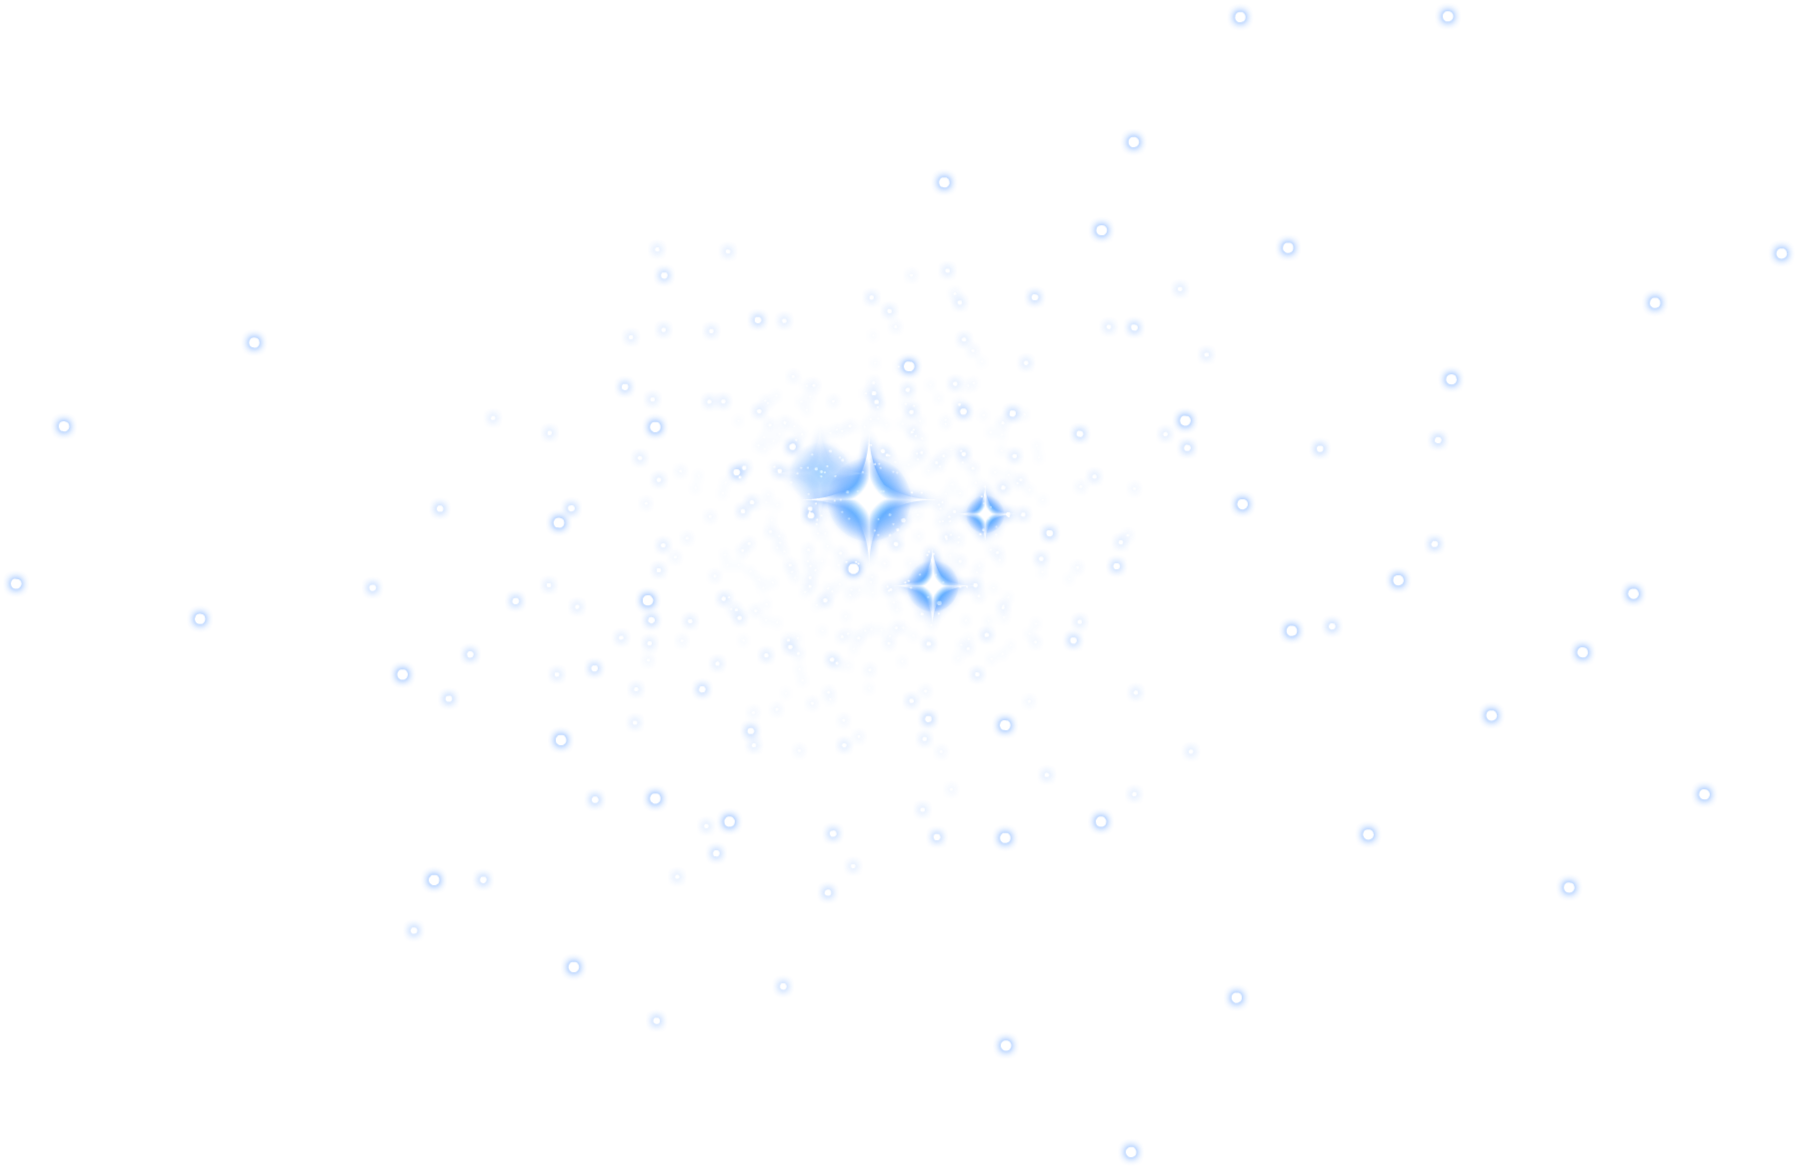
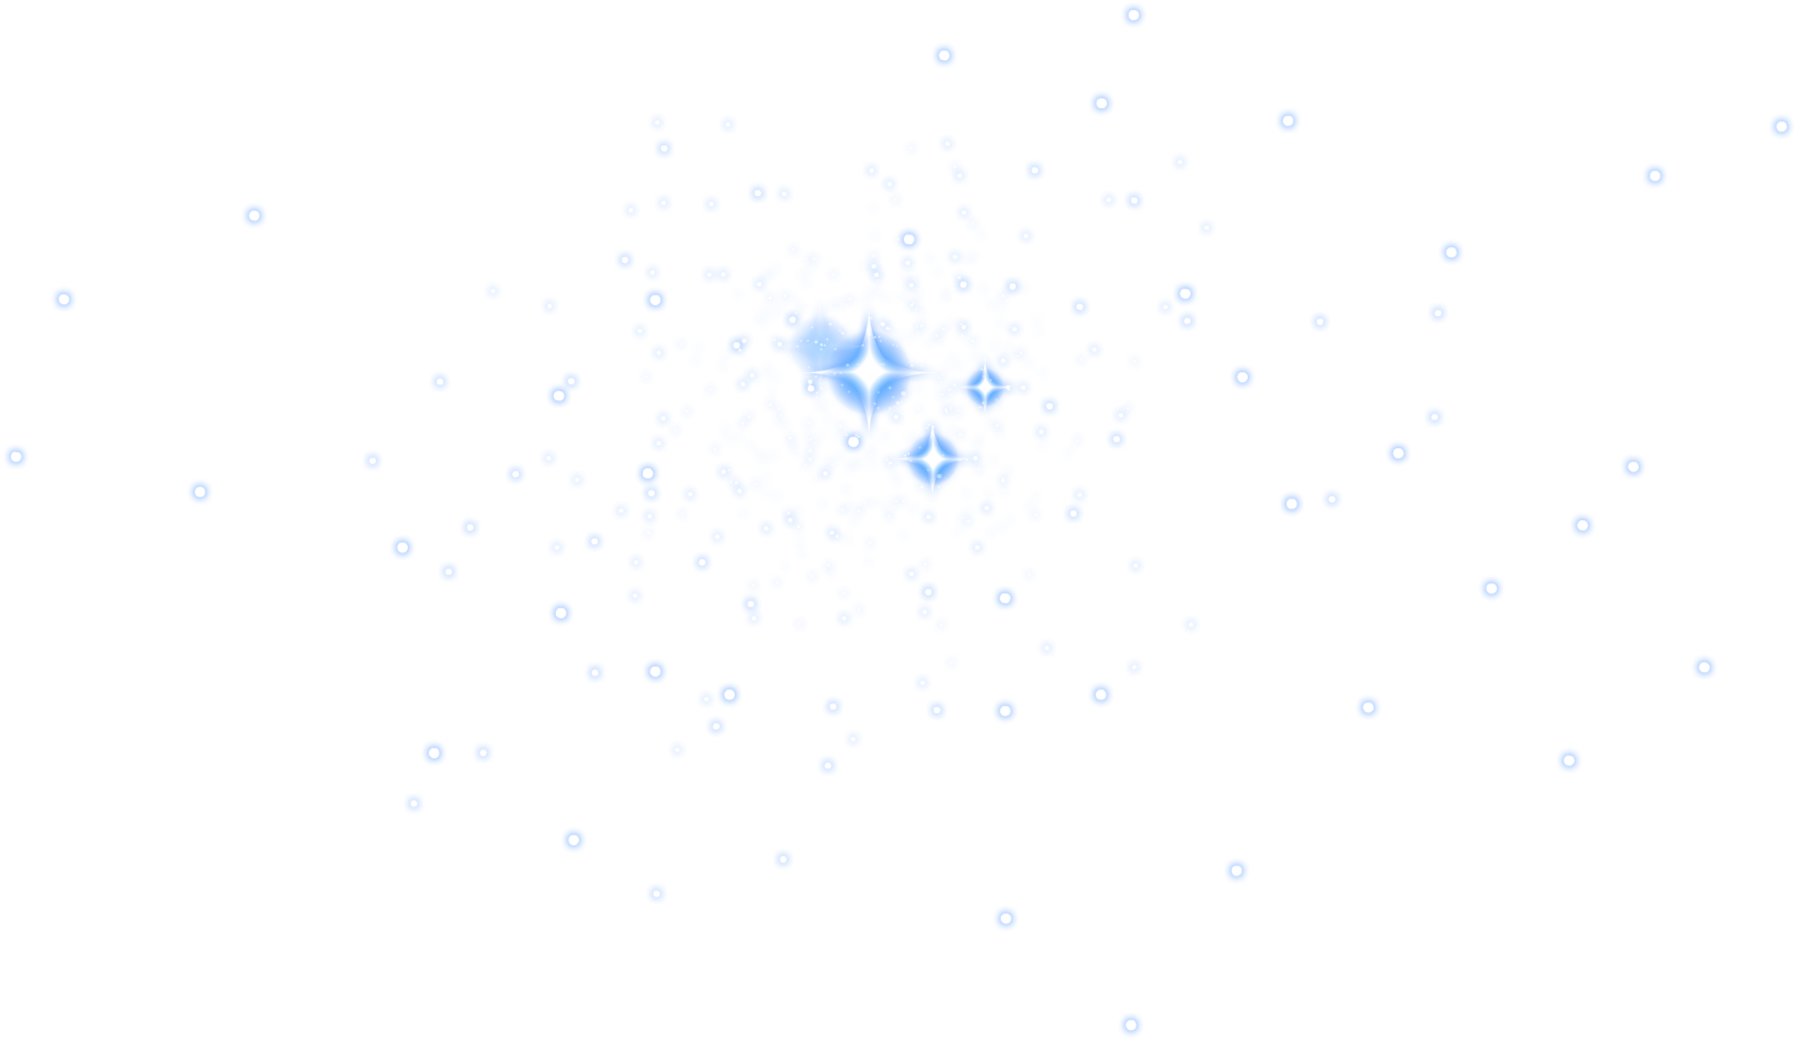
Starfield and moon fixed

diff --git a/css/master.css b/css/master.css
@@ -7,7 +7,7 @@ body, h1, h2, h3, h4, h5, h6, p, blockquote, pre, hr, dl, dd, ol, ul, figure {
   padding: 0;
 }
 
-.moon:hover .textmoon{
+/*.moon:hover .textmoon{
   width: 200px;
   height: auto;
   border: 1px;
@@ -15,7 +15,8 @@ body, h1, h2, h3, h4, h5, h6, p, blockquote, pre, hr, dl, dd, ol, ul, figure {
   background-color: beige;
   box-sizing: content-box;
   box-shadow:
-}
+  padding: 5px, 5px, 5px, 5px;
+}*/
 
 
 /*tags*/
@@ -97,15 +98,21 @@ body, h1, h2, h3, h4, h5, h6, p, blockquote, pre, hr, dl, dd, ol, ul, figure {
   width: 400px;
   height: auto;
   z-index: 3;
+  position: absolute;
+  top: 10px;
+  left: 10px;
 }
 
 .moon .textmoon{
-  position: sticky;
+  position: absolute;
+  top: 100px;
+  left: 400px;
   width: 300px;
   border: 5px, black;
   background-color: beige;
   visibility:hidden;
   float: inline-end;
+  padding: 5px, 5px, 5px, 5px;
 
 
 }
@@ -132,7 +139,6 @@ body, h1, h2, h3, h4, h5, h6, p, blockquote, pre, hr, dl, dd, ol, ul, figure {
 
 .balloon {
   width: 100px;
-  /*margin-top: 50px;*/
   display: block;
   z-index: 2;
 

diff --git a/index.html b/index.html
@@ -34,7 +34,7 @@
 
     <div id="pane-5" class="panel">
       <h1>5</h1>
-      <!-- <img class="starfield" src="img/starfield.png" alt=""> -->
+      <img class="starfield" src="img/starfield.png" alt="">
       <div class="ufo">
         <img src="img/ufo.png" alt="">
       </div>
